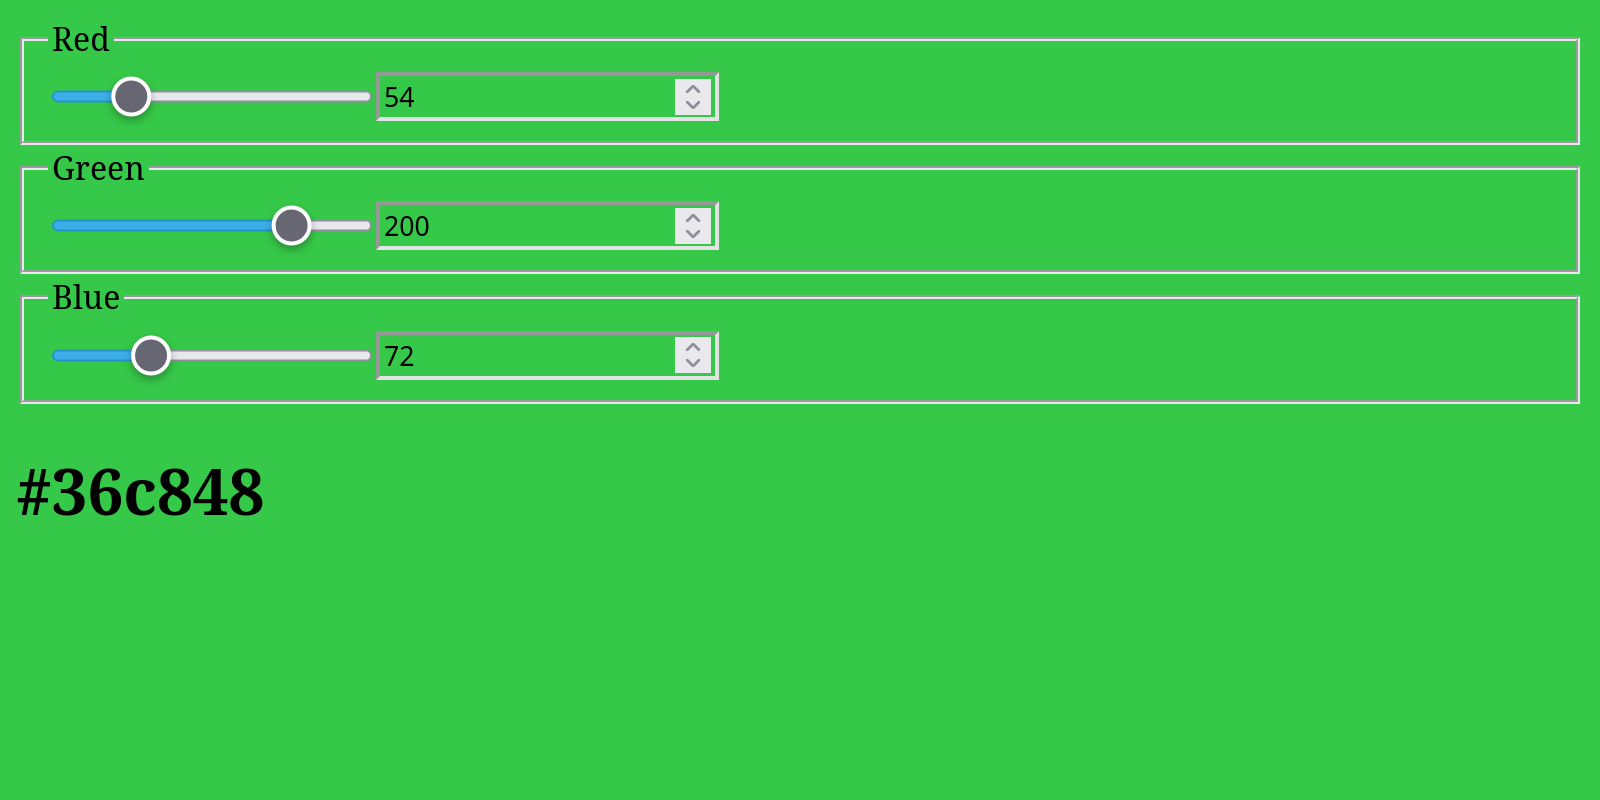
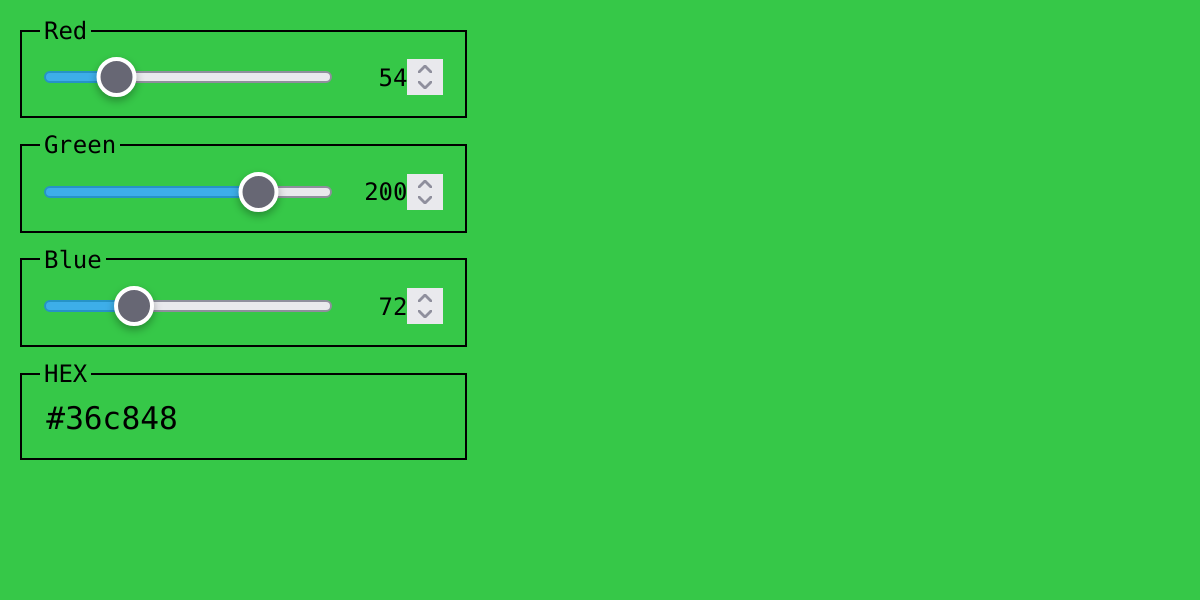
Move and update screencolor

Changed region(s): [[0.0, 0.03, 0.9867, 0.72], [0.0308, 0.75, 0.37, 0.78]]

diff --git a/screencolor.html b/screencolor.html
@@ -1,0 +1,172 @@
+<!DOCTYPE html>
+<!--
+    +--------------+
+    | Screen Color |
+    +--------------+
+    https://andreaslonn.se/screencolor.html
+
+    Hello
+-->
+<html lang="en">
+<head>
+    <meta charset="utf-8">
+    <meta name="viewport" content="width=device-width, initial-scale=1.0">
+    <title>ScreenColor</title>
+    <style>
+        body {
+            color: black;
+            --color-invalid: red;
+            font-family: monospace;
+        }
+        body.light {
+            color: white;
+        }
+        body.red {
+            --color-invalid: yellow;
+        }
+
+        main {
+            display: flex;
+            flex-direction: column;
+            width: min-content;
+            gap: 0.5em;
+        }
+        main fieldset {
+            display: flex;
+            flex-direction: row;
+            border: currentColor solid 0.1em;
+            gap: 1em;
+        }
+        input {
+            background: none;
+            color: inherit;
+            border: none;
+            outline: none;
+            text-align: right;
+            font-family: inherit;
+            font-size: 1em;
+        }
+        input[type=range] {
+            flex-grow: 1;
+        }
+        input[type=text] {
+            text-align: left;
+            font-size: 1.3em;
+            padding: 0.8em;
+            padding-top: 0.4em;
+            margin: -0.6em;
+            margin-top: -0.3em;
+            width: 100%;
+        }
+        input:invalid {
+            color: var(--color-invalid);
+            text-decoration: underline;
+            text-decoration-thickness: 0.2em;
+        }
+
+        @media (max-width: 400px) {
+            main {
+                width: 100%;
+            }
+        }
+    </style>
+</head>
+<body>
+    <main>
+        <fieldset id="inputR"><legend>Red</legend><input type="range" id="sliderR" value="255" min="0" max="255" /><input type="number" id="numberR" value="255" min="0" max="255" /></fieldset>
+        <fieldset id="inputG"><legend>Green</legend><input type="range" id="sliderG" value="255" min="0" max="255" /><input type="number" id="numberG" value="255" min="0" max="255" /></fieldset>
+        <fieldset id="inputB"><legend>Blue</legend><input type="range" id="sliderB" value="255" min="0" max="255" /><input type="number" id="numberB" value="255" min="0" max="255" /></fieldset>
+        <fieldset id="inputHEX"><legend>HEX</legend><input id="textHEX" type="text" value="#FFFFFF" maxlength="7" /></fieldset>
+    </main>
+    <script>
+        function qs(elems, parent=document) { return parent.querySelectorAll(elems); }
+
+        function contrast(rgb1, rgb2) {
+            function luminance(rgb) {
+                rgb = rgb.map((c) => {
+                    c /= 255;
+                    return c <= 0.03928 ? c / 12.92 : Math.pow((c + 0.055) / 1.055, 2.4);
+                });
+                return rgb[0] * 0.2126 + rgb[1] * 0.7152 + rgb[2] * 0.0722;
+            }
+            const lum1 = luminance(rgb1);
+            const lum2 = luminance(rgb2);
+            const brightest = Math.max(lum1, lum2);
+            const darkest = Math.min(lum1, lum2);
+            return (brightest + 0.05) / (darkest + 0.05);
+        }
+
+        function redBackground(r, g, b) {
+            return contrast([r,g,b], [255,0,0]) < contrast([r,g,b], [255,255,0]);
+        }
+        function darkBackground(r, g, b) {
+            return (r * 299 + g * 587 + b * 114) <= 125000;
+        }
+
+        function setScreenColor(r, g, b, update={}) {
+            r = Math.min(255, Math.max(0, Number(r)));
+            g = Math.min(255, Math.max(0, Number(g)));
+            b = Math.min(255, Math.max(0, Number(b)));
+
+            const hex = '#'
+                + r.toString(16).padStart(2, '0')
+                + g.toString(16).padStart(2, '0')
+                + b.toString(16).padStart(2, '0');
+
+            sliderR.value = r;
+            numberR.value = r;
+            sliderG.value = g;
+            numberG.value = g;
+            sliderB.value = b;
+            numberB.value = b;
+
+            const allLower = /^(?=.*[a-f])[#0-9a-f]+$/.test(textHEX.value);
+            const hexCase = allLower ? hex.toLowerCase() : hex.toUpperCase();
+
+            if(update.text !== false) {
+                textHEX.value = hexCase;
+                textHEX.setCustomValidity('');
+            }
+
+            if(update.history !== false) window.history.replaceState(null, null, hexCase);
+
+            document.documentElement.style.backgroundColor = hex;
+            document.body.classList.toggle('light', darkBackground(r, g, b));
+            document.body.classList.toggle('red', redBackground(r, g, b));
+        }
+
+        function parseHex(hex) {
+            let value = hex.toUpperCase();
+            if(value.startsWith('#')) value = value.substring(1);
+            if(value.length === 3) value = value[0] + value[0] + value[1] + value[1] + value[2] + value[2];
+            if(!/^[0-9A-F]{6}$/.test(value)) {
+                throw 'Invalid HEX';
+            }
+
+            return [
+                parseInt(value.substring(0, 2), 16),
+                parseInt(value.substring(2, 4), 16),
+                parseInt(value.substring(4, 6), 16),
+            ];
+        }
+
+        qs('input').forEach(e => e.addEventListener('input', event => {
+            switch(event.target.type) {
+                case 'range': setScreenColor(sliderR.value, sliderG.value, sliderB.value); break;
+                case 'number': setScreenColor(numberR.value, numberG.value, numberB.value); break;
+                case 'text':
+                    try {
+                        const rgb = parseHex(event.target.value);
+                        event.target.setCustomValidity('');
+                        setScreenColor(...rgb, {text: false});
+                    } catch(error) {
+                        event.target.setCustomValidity(error);
+                    }
+                    break;
+            }
+        }));
+
+        if(window.location.hash) setScreenColor(...parseHex(window.location.hash), {history: false});
+    </script>
+</body>
+</html>

diff --git a/404.html b/404.html
@@ -20,7 +20,7 @@
                 break;
             case '/sc':
             case '/screencolor':
-                redirectUrl = 'https://screencolor.andreaslonn.se';
+                redirectUrl = '/screencolor.html';
                 break;
             case '/lw':
             case '/learnword':
@@ -74,7 +74,7 @@
                 Certificate Viewer
             </a></li>
 
-            <li><a href="https://screencolor.andreaslonn.se">
+            <li><a href="/screencolor.html">
                 Screen Color
             </a></li>
 

diff --git a/index.html b/index.html
@@ -104,7 +104,7 @@
                 <span><h3>Certificate Viewer</h3></span>
             </a></li>
 
-            <li><a href="https://screencolor.andreaslonn.se">
+            <li><a href="screencolor.html">
                 <img alt="" src="images/screencolor.png">
                 <span><h3>Screen Color</h3></span>
             </a></li>
